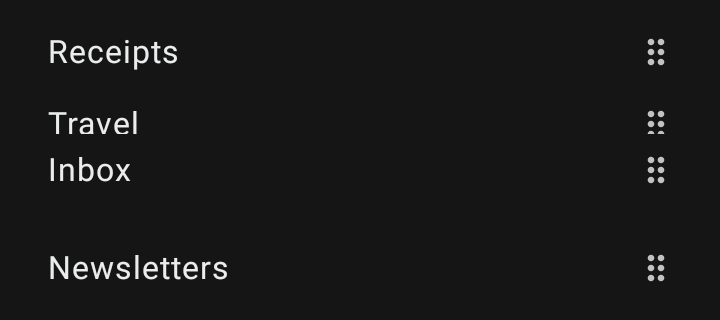
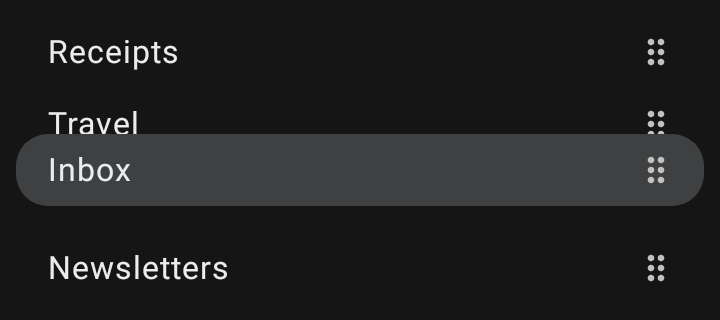
fix(designsystem): update screenshot tests for the new sidebar
- Give SidebarScreenshotTest the SidebarHeader that replaced the account rail, and record sidebar_open and sidebar_header.
- Remove SidebarRailItemScreenshotTest and its images, since #32 removed the rail elements.
- Name onClick in ContextMenuScreenshotTest, since MenuAction now takes icon second.
- Record reorderable_column_dragging, where #32 fills the dragged row with bgLight.

Changed region(s): [[0.0, 0.4062, 0.9778, 0.6562]]

diff --git a/designsystem/src/androidHostTest/kotlin/com/otus/designsystem/components/SidebarScreenshotTest.kt b/designsystem/src/androidHostTest/kotlin/com/otus/designsystem/components/SidebarScreenshotTest.kt
@@ -10,10 +10,7 @@ import androidx.compose.ui.unit.dp
 import com.otus.designsystem.elements.SidebarCount
 import com.otus.designsystem.elements.SidebarEntry
 import com.otus.designsystem.elements.SidebarHeading
-import com.otus.designsystem.elements.SidebarRailAccount
-import com.otus.designsystem.elements.SidebarRailIcon
 import com.otus.designsystem.resources.Res
-import com.otus.designsystem.resources.symbol_all_inbox
 import com.otus.designsystem.resources.symbol_archive
 import com.otus.designsystem.resources.symbol_draft
 import com.otus.designsystem.resources.symbol_folder
@@ -47,7 +44,7 @@ class SidebarScreenshotTest {
         }
 
     @Test
-    fun rail() = compose.screenshot("sidebar_rail") { Box(Modifier.height(320.dp)) { Rail() } }
+    fun header() = compose.screenshot("sidebar_header") { Box(Modifier.height(80.dp)) { Header() } }
 
     @Composable
     private fun PageWithSidebar(state: SidebarState) =
@@ -55,16 +52,19 @@ class SidebarScreenshotTest {
             SidebarSwipeArea(state) {
                 PageScaffold("Inbox", navigationLabel = "Open navigation", onNavigation = {}) {}
             }
-            Sidebar(state, title = "Work", subtitle = "work@example.com", rail = { Rail() }) { Entries() }
+            Sidebar(state, title = "Work", header = { Header() }) { Entries() }
         }
 
     @Composable
-    private fun Rail() =
-        SidebarRail(onSettings = {}) {
-            SidebarRailIcon(Res.drawable.symbol_all_inbox, "All", "All accounts", selected = false, {})
-            SidebarRailAccount("WK", "Work account", selected = true, {}, badge = "4")
-            SidebarRailAccount("HM", "Home account", selected = false, {})
-        }
+    private fun Header() =
+        SidebarHeader(
+            "Work",
+            listOf(ChipAvatar("WK", colorIndex = 0)),
+            pickLabel = "Show mail from",
+            onPick = {},
+            onSettings = {},
+            subtitle = "work@example.com",
+        )
 
     @Composable
     private fun Entries() {

diff --git a/designsystem/src/androidHostTest/kotlin/com/otus/designsystem/components/ContextMenuScreenshotTest.kt b/designsystem/src/androidHostTest/kotlin/com/otus/designsystem/components/ContextMenuScreenshotTest.kt
@@ -24,7 +24,8 @@ class ContextMenuScreenshotTest {
     @get:Rule
     val compose = createComposeRule()
 
-    private val actions = listOf(MenuAction("Rename", {}), MenuAction("Duplicate", {}), MenuAction("Delete theme", {}))
+    private val actions =
+        listOf("Rename", "Duplicate", "Delete theme").map { MenuAction(it, onClick = {}) }
 
     @Test
     fun atPoint() = compose.screenScreenshot("context_menu") { Page(Offset(120f, 300f)) }
